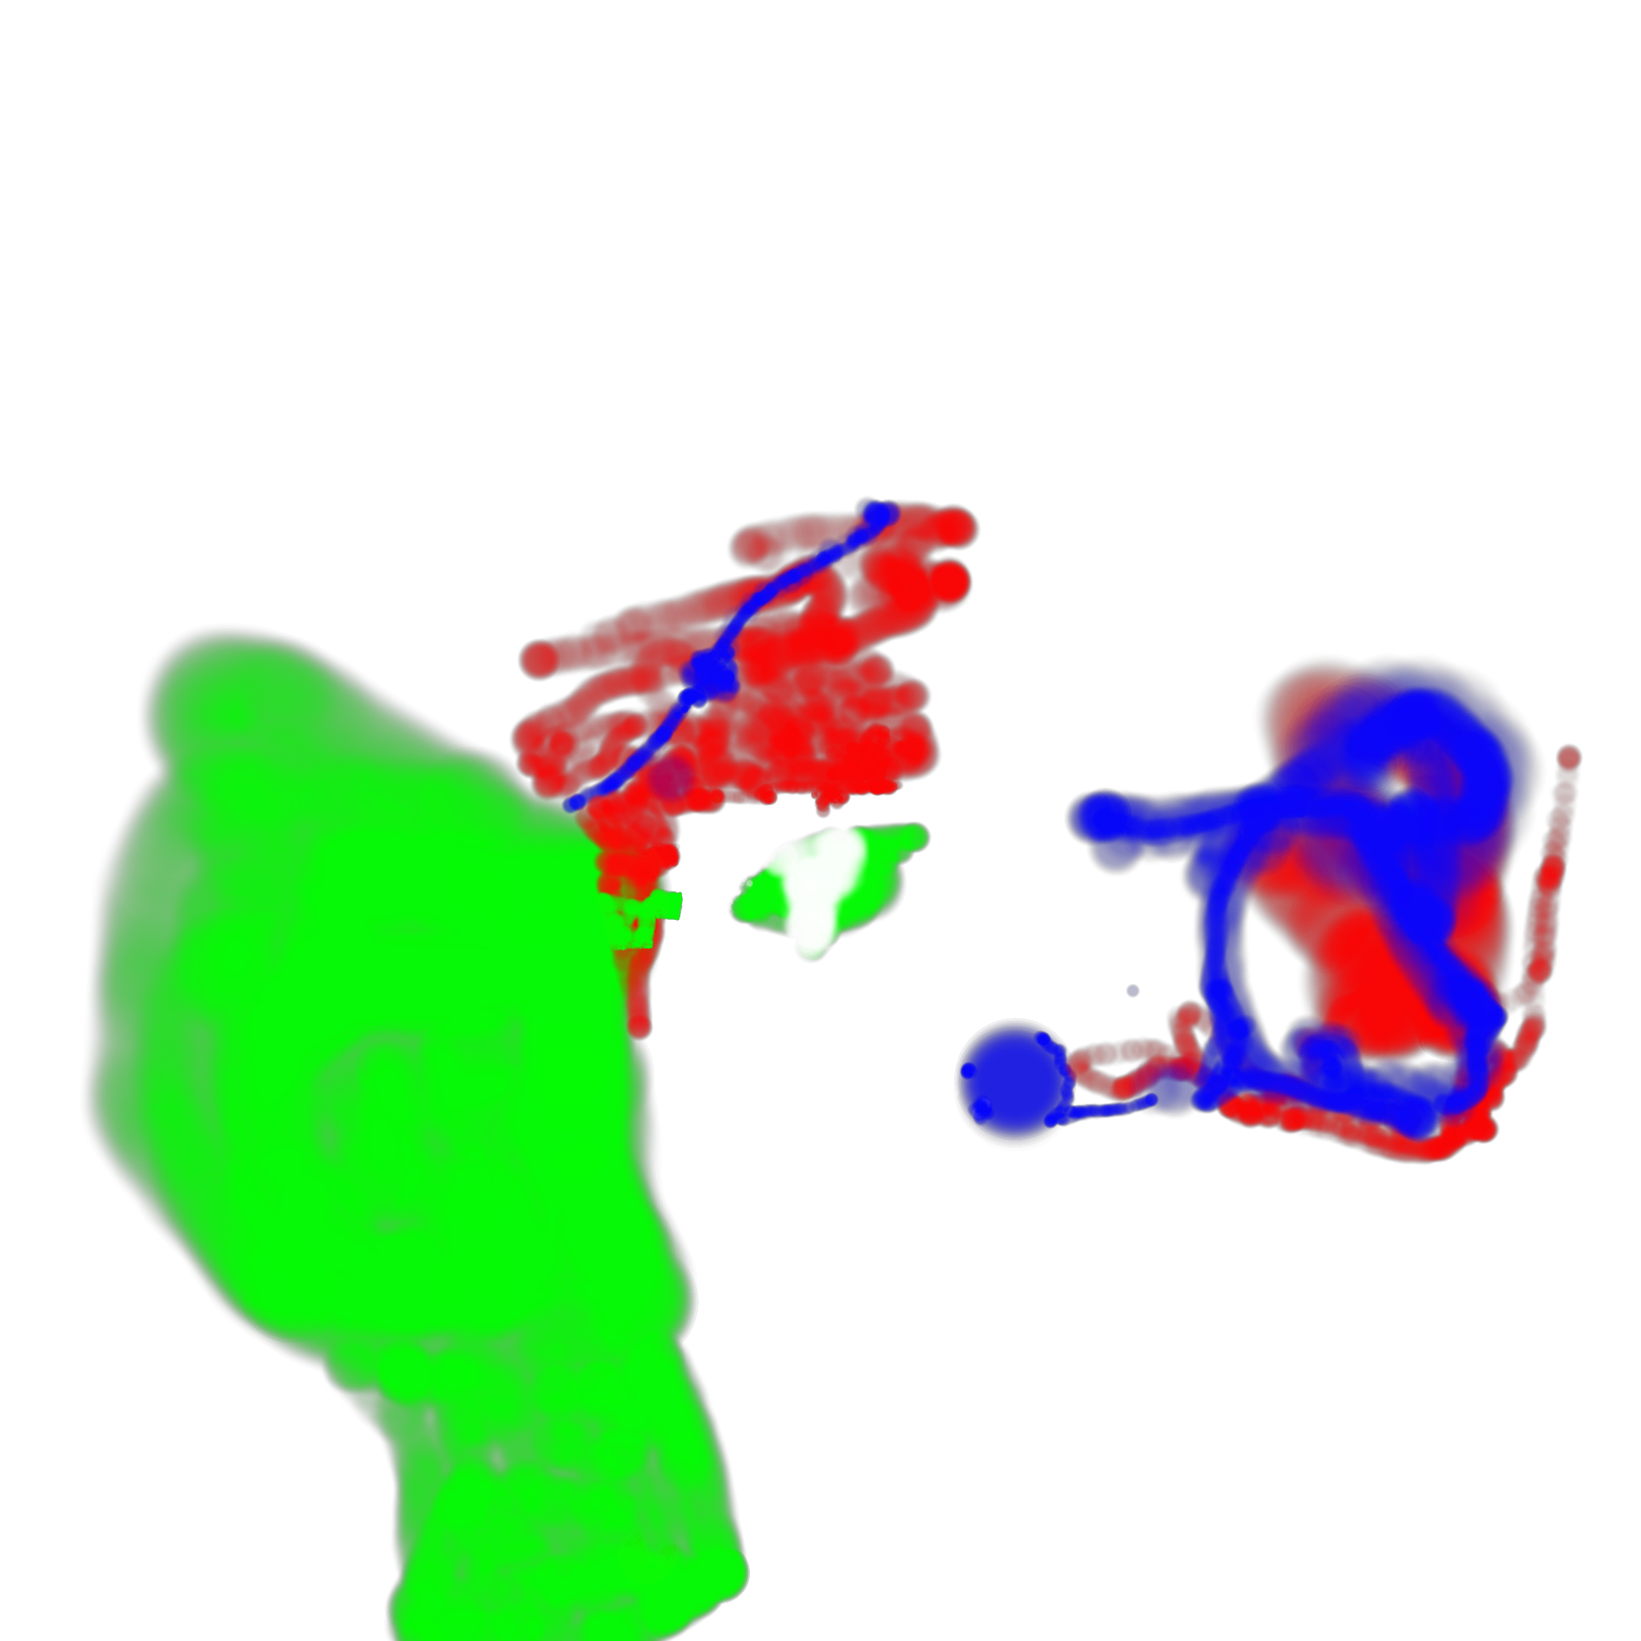
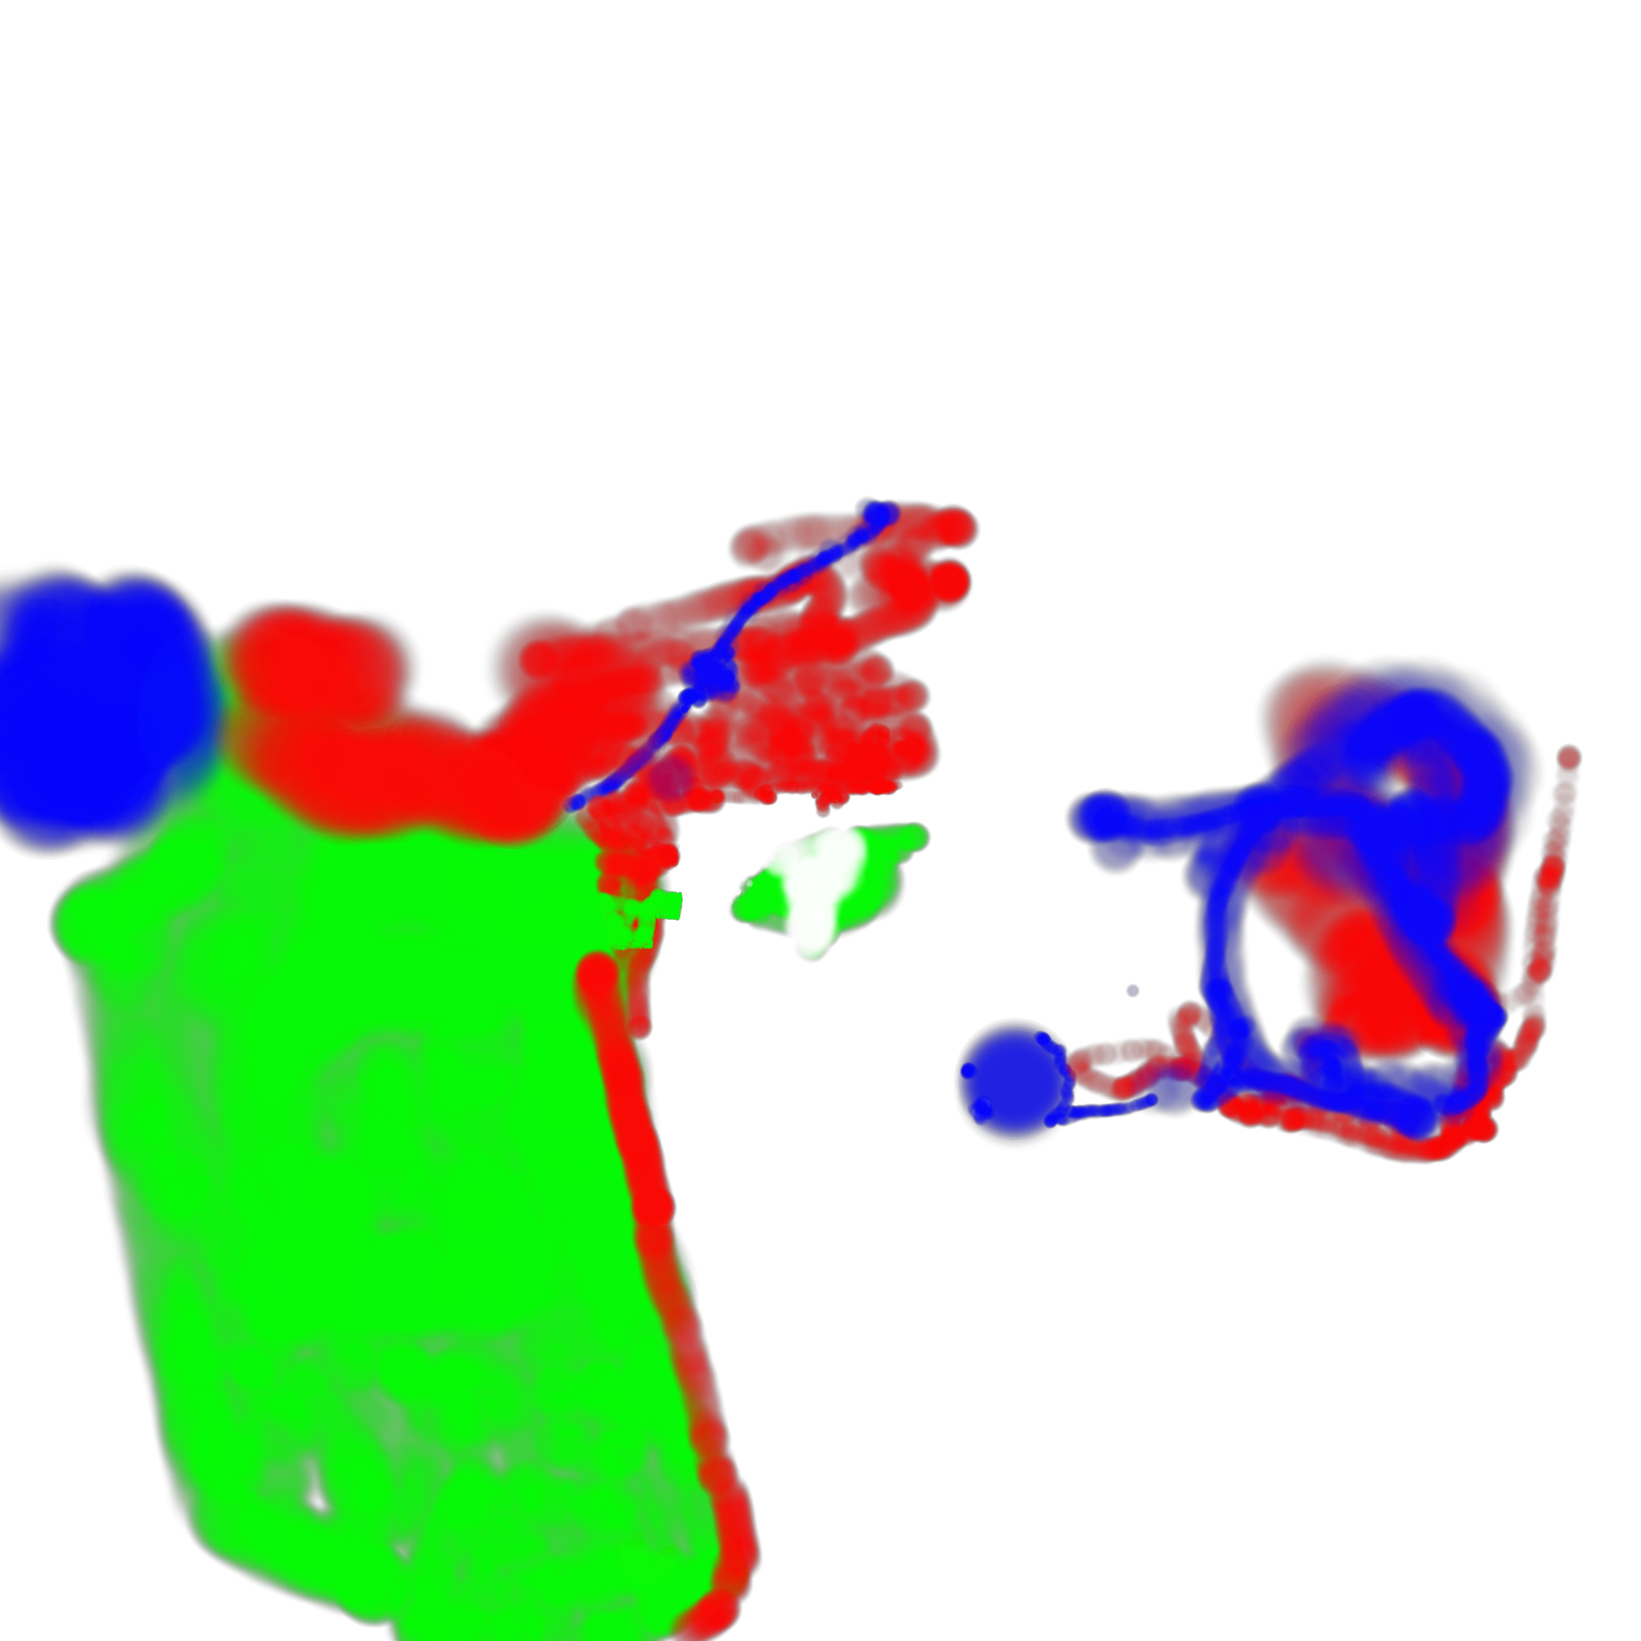
La voile à contre (⇧E) ; l'ILCA 4, dériveur anachronique assumé
- ShipPhysics.BackSail : la bôme tenue à contre, le navire cule et abat
- ships/ilca4.json : voile bermudienne (dessin), rudder.area pour la godille
- jeu libre : l'ILCA offert, écarté des rencontres
- pâtés de maisons posés à Port-Royal (retouches)

Changed region(s): [[0.0, 0.3438, 0.4062, 1.0], [0.3438, 0.5625, 0.4688, 1.0]]

diff --git a/core/NavalSim.Core/ShipPhysics.Tack.cs b/core/NavalSim.Core/ShipPhysics.Tack.cs
@@ -127,4 +127,50 @@ public sealed partial class ShipPhysics
         Vec3d arm = b.Quat.Rotate(at) + b.Pos - cog;
         torque += arm.Cross(F);
     }
+
+    /// <summary>L'angle de la bôme qu'on tient à contre, en radians depuis l'axe.</summary>
+    public const double BackedAngle = 0.9;
+
+    /// <summary>
+    /// LA VOILE À CONTRE — sortir d'un face au vent. Coincé vent debout, la toile
+    /// faseye et ne pousse rien, et sans erre la barre ne mord pas. On POUSSE LA
+    /// BÔME d'un bord, à la main : le vent prend la voile par sa face avant, la
+    /// pousse vers l'arrière et de ce bord — le navire CULE, et sa poupe part du
+    /// côté où l'on pousse, l'étrave de l'autre. Quand le vent est passé sur la
+    /// joue voulue, on lâche, on borde, et l'on repart sur ce bord. (En culant, la
+    /// barre agit à rebours.)
+    ///
+    /// Une plaque (Cd 1,1) de la grand-voile, à l'angle de la bôme, frappée par le
+    /// vent apparent à son incidence réelle, à l'arrière du mât où est son centre :
+    /// le même vent que dans la toile, gain compris. Rien d'inventé que le geste.
+    /// </summary>
+    void BackSail(Controls ctrl, Ocean ocean, in Vec3d cog,
+                  ref Vec3d force, ref Vec3d torque, in Vec3d fwd, in Vec3d right)
+    {
+        if (ctrl.Backed == 0) return;
+        var S = Spec; var b = Body;
+        double sails = SetFrac * Standing * Whole;
+        if (sails < 0.2 || S.SailArea <= 0) return;
+        Vec3d app = ocean.WindVec - b.Vel;
+        app.Y = 0;
+        double vApp = app.Length;
+        if (vApp < 0.3) return;
+        Vec3d dir = app * (1 / vApp);                        // où va le vent
+        int s = Math.Sign(ctrl.Backed);
+        // la bôme, du mât vers l'arrière, ouverte du bord où on la pousse
+        Vec3d boom = fwd * -Math.Cos(BackedAngle) + right * (s * Math.Sin(BackedAngle));
+        // sa normale, du côté où le vent la pousse
+        Vec3d n = new Vec3d(boom.Z, 0, -boom.X);
+        if (n.Dot(dir) < 0) n = n * -1;
+        double inc = Math.Abs(n.Dot(dir));                  // sin de l'incidence
+        double A = (S.LateenArea > 0 ? S.LateenArea : 0.6 * S.SailArea) * sails;
+        double q = 0.5 * Config.RhoAir * vApp * vApp;
+        Vec3d F = n * (PlateCd * q * A * inc * Config.WindGain);
+        // son centre : à mi-bôme, à mi-hauteur de toile, sur le bord poussé
+        // tribord est −x : la bôme ouverte à tribord va vers −x, vers l'arrière
+        Vec3d at = new Vec3d(-s * Math.Sin(BackedAngle) * 0.3 * S.L, _ce.Y, _ce.Z - Math.Cos(BackedAngle) * 0.3 * S.L);
+        force += F;
+        Vec3d arm = b.Quat.Rotate(at) + b.Pos - cog;
+        torque += arm.Cross(F);
+    }
 }

diff --git a/core/NavalSim.Lab/Program.cs b/core/NavalSim.Lab/Program.cs
@@ -66,6 +66,7 @@ switch (mode)
     case "sondeur": Sondeur(); break;
     case "sombrer": Sombrer(); break;
     case "godille": Godille(); break;
+    case "contre": Contre(); break;
     default:
         Console.Error.WriteLine($"mode inconnu : {mode}");
         return 1;
@@ -1385,6 +1386,40 @@ void Godille()
         var f1 = ph.Body.Quat.Rotate(new Vec3d(0, 0, 1));
         double turn = Math.Atan2(Math.Sin(Math.Atan2(-f1.X, f1.Z) - h0), Math.Cos(Math.Atan2(-f1.X, f1.Z) - h0)) * 180 / Math.PI;
         Console.WriteLine(FormattableString.Invariant($"  {label,-26} : tourné de {turn,6:F1}° en 30 s, erre en avant au plus {maxFwd / 0.5144:F2} nd"));
+    }
+}
+
+/* LA VOILE À CONTRE : un navire arrêté face au vent, voiles établies, la bôme tenue
+   à contre vingt secondes d'un bord ou de l'autre. [fiche] [force] */
+void Contre()
+{
+    string root = Path.GetFullPath(Path.Combine(AppContext.BaseDirectory, "..", "..", "..", "..", ".."));
+    string name = args.Length > 1 ? args[1] : "sloop";
+    double force = args.Length > 2 ? double.Parse(args[2], CultureInfo.InvariantCulture) : 3;
+    var spec = ShipSpec.FromJson(File.ReadAllText(Path.Combine(root, "ships", name + ".json")));
+    Config.WindGain = 8; Config.CrewTacks = true;
+    Console.WriteLine(FormattableString.Invariant($"{spec.Name} face au vent, force {force}"));
+    foreach (var (label, side) in new[] { ("rien", 0), ("bôme à contre, tribord", 1), ("bôme à contre, bâbord", -1) })
+    {
+        var ocean = new Ocean { Swell = 1.0, Time = 0 };
+        ocean.SetSeaState(force, 105);
+        var ph = new ShipPhysics(spec, new HullLines(spec));
+        var ctrl = new Controls { SailsSet = true, Sheet = 0.3 };
+        ph.Settle(ocean, ctrl);
+        ph.Body.Quat = Quatd.FromAxisAngle(new Vec3d(0, 1, 0), -105 * Math.PI / 180);
+        Vec3d f0 = ph.Body.Quat.Rotate(new Vec3d(0, 0, 1));
+        double h0 = Math.Atan2(-f0.X, f0.Z), dt = 1.0 / 60, tt = 0, back = 0;
+        while (tt < 20)
+        {
+            ctrl.Backed = side;
+            ph.Step(dt, ocean, ctrl, tt); tt += dt;
+            var fw = ph.Body.Quat.Rotate(new Vec3d(0, 0, 1));
+            back = Math.Min(back, ph.Body.Vel.Dot(fw));
+        }
+        var f1 = ph.Body.Quat.Rotate(new Vec3d(0, 0, 1));
+        double h1 = Math.Atan2(-f1.X, f1.Z);
+        double turn = Math.Atan2(Math.Sin(h1 - h0), Math.Cos(h1 - h0)) * 180 / Math.PI;
+        Console.WriteLine(FormattableString.Invariant($"  {label,-24} : l'étrave a tourné de {turn,6:F1}° en 20 s (vers {(turn > 0 ? "bâbord" : "tribord")}), culé jusqu'à {-back / 0.5144:F2} nd"));
     }
 }
 

diff --git a/godot/scripts/ShipNode.Rig.cs b/godot/scripts/ShipNode.Rig.cs
@@ -346,14 +346,26 @@ public partial class ShipNode
             Position = new Vector3(0, (float)tackY, (float)(-m.Boom * 0.45))
         });
         // taillée plate, dans l'axe ; le creux vient de la forme, sous le vent
-        rig.AddChild(SailSurface(new[]
-        {
-            new Vec3d(0, tackY + 0.05, -0.2 * sc),
-            new Vec3d(0, tackY, -m.Boom * 0.93),
-            new Vec3d(0, spec.DeckMid + m.Height - 1.0 * sc, -m.Boom * 0.70),
-            new Vec3d(0, spec.DeckMid + m.Height - 0.6 * sc, -0.2 * sc)
-            // lacée sur trois côtés ; le plus creux aux quatre dixièmes derrière le guindant
-        }, new Vec3d(1, 0, 0), new SailCut { Kind = "gaff", UPeak = 0.42, Crown = 0.80 }));
+        double top = spec.DeckMid + m.Height;
+        rig.AddChild(SailSurface(m.Bermuda
+            /* BERMUDIENNE : la têtière au haut du mât, et le ROND DE CHUTE — la
+               chute bombe vers l'arrière, tenue par ses lattes, aux deux tiers de
+               la hauteur. Quatre points comme l'aurique, le troisième sur la chute. */
+            ? new[]
+            {
+                new Vec3d(0, tackY + 0.03, -0.05 * sc),
+                new Vec3d(0, tackY, -m.Boom * 0.96),
+                new Vec3d(0, tackY + (top - tackY) * 0.62, -m.Boom * 0.42),
+                new Vec3d(0, top - 0.1 * sc, -0.05 * sc)
+            }
+            : new[]
+            {
+                new Vec3d(0, tackY + 0.05, -0.2 * sc),
+                new Vec3d(0, tackY, -m.Boom * 0.93),
+                new Vec3d(0, top - 1.0 * sc, -m.Boom * 0.70),
+                new Vec3d(0, top - 0.6 * sc, -0.2 * sc)
+                // lacée sur trois côtés ; le plus creux aux quatre dixièmes derrière le guindant
+            }, new Vec3d(1, 0, 0), new SailCut { Kind = "gaff", UPeak = 0.42, Crown = 0.80 }));
         _rig.AddChild(rig);
         return rig;
     }

diff --git a/core/NavalSim.Core/ShipSpec.cs b/core/NavalSim.Core/ShipSpec.cs
@@ -54,6 +54,8 @@ public sealed class RudderSpec
     [JsonPropertyName("maxAngle")]  public double MaxAngle { get; set; }
     [JsonPropertyName("postZFrac")] public double PostZFrac { get; set; }
     [JsonPropertyName("postY")]     public double PostY { get; set; }
+    /// <summary>La surface de la lame (m²), si la fiche la connaît : un dériveur a un grand safran (la godille). Nulle : estimée.</summary>
+    [JsonPropertyName("area")]      public double Area { get; set; }
 }
 
 public sealed class MastSpec
@@ -66,6 +68,11 @@ public sealed class MastSpec
     [JsonPropertyName("yards")]     public List<double> Yards { get; set; } = new();
     /// <summary>L'envergure de la basse vergue, en fraction du bau.</summary>
     [JsonPropertyName("yardSpan")]  public double YardSpan { get; set; }
+    /// <summary>
+    /// UNE VOILE BERMUDIENNE et non aurique : triangulaire, sa têtière au haut du
+    /// mât, sans corne. Le dessin seulement — le solveur ne voit qu'une aile.
+    /// </summary>
+    [JsonPropertyName("bermudienne")] public bool Bermuda { get; set; }
 
     /// <summary>Position absolue, derivee de zFrac multiplie par L au chargement.</summary>
     [JsonIgnore] public double Z { get; set; }
@@ -547,7 +554,7 @@ public sealed class ShipSpec
         /* LA LAME DU SAFRAN, pour la godille seulement : deux et demi pour cent du
            plan de dérive — la règle des chantiers, de deux à trois —, et une lame
            une fois et demie plus haute que large. */
-        RudderArea = 0.025 * lateralArea;
+        RudderArea = json.Rudder.Area > 0 ? json.Rudder.Area : 0.025 * lateralArea;
         RudderChord = Math.Sqrt(RudderArea / 1.5);
         RudderMax = json.Rudder.MaxAngle;
         RudderZ = json.Rudder.PostZFrac * L;

diff --git a/godot/scripts/ShipDemo.Input.cs b/godot/scripts/ShipDemo.Input.cs
@@ -48,8 +48,14 @@ public partial class ShipDemo
             c.OarR = Math.Clamp(c.Throttle - c.Rudder, -1, 1);
         }
 
-        if (Physical(Key.Q)) c.Sheet = Math.Max(0, c.Sheet - dt * 0.8);
-        if (Physical(Key.E)) c.Sheet = Math.Min(_ship.Spec.MaxSheet, c.Sheet + dt * 0.8);
+        /* ⇧E TENUE : LA BÔME À CONTRE, poussée du bord où elle pend déjà — le geste
+           qu'on fait d'instinct, vent debout (ShipPhysics.BackSail). L'angle dessiné
+           vaut −amure × écoute : elle pend à tribord (+1) quand l'amure vaut −1.
+           (⇧Q, ⇧A, ⇧D sont pris : l'abordage d'essai, le saut, la hache.) */
+        bool shift = Input.IsKeyPressed(Key.Shift);
+        c.Backed = shift && Physical(Key.E) ? (_ship.Physics.Tack < 0 ? 1 : -1) : 0;
+        if (Physical(Key.Q) && !shift) c.Sheet = Math.Max(0, c.Sheet - dt * 0.8);
+        if (Physical(Key.E) && !shift) c.Sheet = Math.Min(_ship.Spec.MaxSheet, c.Sheet + dt * 0.8);
     }
 
     /// <summary>

diff --git a/godot/scripts/ShipDemo.cs b/godot/scripts/ShipDemo.cs
@@ -706,7 +706,12 @@ public partial class ShipDemo : Node3D
            voile se gonfle parce qu'on la borde, avec la même pression qui pousse
            le navire, sans seconde règle à tenir d'accord. */
         var ph = _ship.Physics;
-        _ship.SetTrim(_ship.Ctrl.Sheet, ph.Tack, ph.SetFrac, ph.Luffing, _t, ph.SailLoad);
+        /* la bôme tenue à contre se voit de ce bord : l'angle dessiné vaut −amure ×
+           écoute, d'où l'amure contraire au bord poussé */
+        if (_ship.Ctrl.Backed != 0)
+            _ship.SetTrim(ShipPhysics.BackedAngle, -_ship.Ctrl.Backed, ph.SetFrac, false, _t, ph.SailLoad);
+        else
+            _ship.SetTrim(_ship.Ctrl.Sheet, ph.Tack, ph.SetFrac, ph.Luffing, _t, ph.SailLoad);
         _ship.Sea = _sea.Core;
         _ship.StreamFlags(_t);
         _ship.RecoilTick(_gunnery.Clock, _gunRules.RecoilSpeed);

diff --git a/godot/scripts/ShipDemo.Keys.cs b/godot/scripts/ShipDemo.Keys.cs
@@ -97,6 +97,7 @@ public partial class ShipDemo : Node3D
         Key(a, "W  S", "machine, en avant et en arrière");
         Key(a, "A  D", "barre à bâbord, à tribord");
         Key(a, "Q  E", "border, choquer les écoutes");
+        Key(a, "⇧E", "tenue : la bôme à contre, pour sortir d'un face au vent");
         Key(a, "Tab", "les objectifs du chapitre");
         Key(a, "V", "établir ou ferler");
         Key(a, "⇧V", "prendre un ris : huniers, bas ris, tout serré");

diff --git a/core/NavalSim.Core/ShipPhysics.Step.cs b/core/NavalSim.Core/ShipPhysics.Step.cs
@@ -370,6 +370,7 @@ public sealed partial class ShipPhysics
 
         Sails(ctrl, ocean, cog, ref force, ref torque, fwd, right);
         CrewTack(dt, ctrl, ocean, cog, ref force, ref torque, fwd, right);
+        BackSail(ctrl, ocean, cog, ref force, ref torque, fwd, right);
         Ground(dt, ref force, ref torque, cog, ocean);
         Jetty(dt, ref force, ref torque, cog, ocean);
         Collide(dt, ref force, ref torque, cog, neighbours);

diff --git a/core/NavalSim.Core/ShipPhysics.cs b/core/NavalSim.Core/ShipPhysics.cs
@@ -27,6 +27,11 @@ public sealed class Controls
     /// avant.
     /// </summary>
     public double Canvas = 1;
+    /// <summary>
+    /// LA BÔME TENUE À CONTRE, à la main : +1 poussée à tribord, −1 à bâbord, 0
+    /// rien (ShipPhysics.Backed). Le geste qui sort d'un face au vent.
+    /// </summary>
+    public int Backed;
 
     /// <summary>
     /// LES DEUX BANCS D'AVIRONS, de −1 (on scie) à 1 (on nage), bâbord et

diff --git a/docs/journal.md b/docs/journal.md
@@ -14299,6 +14299,34 @@ plus que dans les cases gardées ; tout le semis du fond tombe à 1,0 s (1,8 ava
 l'herbier dense). Coût mesuré : le pré, 8,77 ms contre 8,54 sans le fond ; le récif,
 7,57 comme avant.
 
+## La voile à contre, et l'ILCA 4 (Godot)
+
+LA VOILE À CONTRE (demandée) : le virement de l'équipage mettait déjà la misaine à
+contre, mais ne naissait qu'avec de l'erre (0,3 m/s) — vent debout et arrêté, rien ne
+sortait le navire de là. ShipPhysics.BackSail : la bôme tenue à contre (Controls.Backed,
+⇧E tenue, du bord où elle pend), une plaque de la grand-voile à l'angle de la bôme
+(0,9 rad), frappée par le vent apparent à son incidence réelle, gain compris. Le navire
+CULE et abat de l'autre bord. Mesuré (banc « contre », force 3) : le sloop abat de 73°
+en 20 s en culant à 1,6 nœud, de 67° de l'autre bord ; le galion de 3° ; le cotre, sans
+toile, rien. La bôme dessinée passe à contre (SetTrim, l'amure contraire). Touches : ⇧Q,
+⇧A, ⇧D étaient prises (l'abordage d'essai, le saut, la hache) : ⇧E, un seul geste, du bord
+où pend la bôme — celui qu'on fait d'instinct.
+
+L'ILCA 4 (demandé, anachronisme assumé) : ships/ilca4.json, d'après le constructeur —
+4,21 m, 1,37 m, 57 kg de coque, 4,70 m² ; 0,13 t avec son barreur. Carène de 17 cm, la
+DÉRIVE en keelExtra (60 cm), le plan de dérive des fiches n'étant que la coque :
+lateralGrip fort pour la porter. Deux champs nouveaux : « bermudienne » sur un mât (la
+voile triangulaire, dessin seulement) et rudder.area (la lame réelle, 0,09 m², pour la
+godille). Cale ramenée à 20 kg (la règle des marchands lui en donnait 2 t). Au banc des
+allures, gain 8 : 9 nœuds au travers par force 3, 12 par force 4 — vite, comme tout le
+jeu (le sloop : 10 et 16). Il flotte à 3 cm de tirant de coque, 4,5 % d'immersion :
+juste pour 130 kg sur une carène plate. Il ne tient pas vent debout : il abat seul en
+quelques secondes (barre au milieu : 178° en 30 s, en prenant 8,9 nœuds), ce qui brouille
+les bancs « godille » et « contre » : la godille l'emmène de −97° à −170° selon le geste,
+la voile à contre de +81° (à tribord) ou de −113° (à bâbord) — chaque bord répond, mais
+l'écart à la base ne se lit pas proprement. À juger en jeu, pas au banc.
+Jeu libre : offert (libre.json) ; écarté des rencontres. Le modèle viendra de Blender.
+
 ## La godille au safran (Godot)
 
 Demandé, après une question : sur un Laser face au vent, des coups de barre aident à

diff --git a/ships/README.md b/ships/README.md
@@ -267,6 +267,12 @@ bras s'écartent).
 
 ## Gouvernail
 
+`rudder.area` (m², facultatif, Godot) : la surface de la lame, pour la GODILLE — une
+barre qu'on balaie à coups secs pousse l'eau même navire arrêté (banc `godille`).
+Absente, elle s'estime à 2,5 % du plan de dérive, ce qui vaut pour un navire ; un
+dériveur a un grand safran (l'ILCA 4 : 0,09 m²). Sur nos coques de vingt tonnes et
+plus, la godille ne se sent pas ; sur l'ILCA, si.
+
 Le safran tourne avec la barre (`rudder.maxAngle` à fond), **à son rythme** :
 `rudder.hardOver` est le nombre de secondes pour aller de la barre droite à la
 barre à fond (par défaut 3 × √(longueur/24) : 3,4 s pour 30 m, 4,7 s pour 60 m).
@@ -412,6 +418,15 @@ planche doit empêcher : une image retournée ou en miroir.
 
 `rig.type` vaut `"gaff"` (bôme pivotante), `"square"` (vergues carrées) ou
 `"none"`. En carré, chaque mât liste ses vergues en fractions de sa hauteur.
+Un mât à bôme peut porter `"bermudienne": true` : sa voile est dessinée
+triangulaire, la têtière au haut du mât, avec un rond de chute, sans corne (l'ILCA 4).
+Le dessin seulement — le solveur ne voit toujours qu'une aile.
+
+**La voile à contre** (⇧E tenue, Godot) : la bôme poussée du bord où elle pend, le
+vent prend la toile par sa face avant — le navire cule et son étrave abat de l'autre
+bord. C'est le geste qui sort d'un face au vent ; mesuré (banc `contre`) : le sloop
+abat de 70° en 20 s, le galion de 3° (sur un trois-mâts, le geste est de brasser à
+contre, et trois cents tonnes ne se tournent pas à la main).
 
 Le solveur ne modélise **qu'une seule aile équivalente** (`sailArea`, `ceHeight`),
 pas chaque voile séparément — le gréement est une représentation visuelle.
